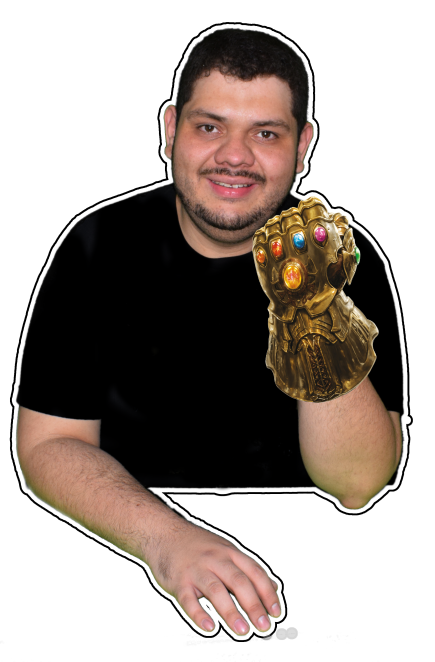
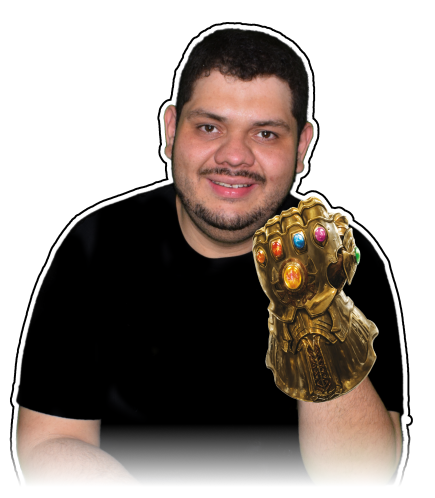
Mejorando Foto

diff --git a/index.html b/index.html
@@ -89,7 +89,7 @@
     <header class="w3-container w3-padding-32 w3-center w3-black" id="home">
       <h1 class="w3-jumbo"><span class="w3-hide-small">Soy</span> ChepeCarlos</h1>
       <p>Emprendedor, Programador Sistemas Embebidos y Fundador de ALSW.</p>
-      <img src="/recursos/imagenes/ChepeCarlos.png" alt="boy" class="w3-image" width="992" height="1108">
+      <img src="/recursos/imagenes/ChepeCarlos.png" alt="boy" class="w3-image" width="900" height="495">
     </header>
 
     <!-- About Section -->
@@ -142,31 +142,19 @@
           Tutoriales
         </div>
         <div class="w3-quarter w3-section">
-          <span class="w3-xlarge">55+</span><br>
-          Projects Done
+          <span class="w3-xlarge">7K+</span><br>
+          Subcriptores
         </div>
         <div class="w3-quarter w3-section">
           <span class="w3-xlarge">89+</span><br>
           Happy Clients
         </div>
         <div class="w3-quarter w3-section">
-          <span class="w3-xlarge">150+</span><br>
-          Meetings
+          <span class="w3-xlarge">200+</span><br>
+          Proyectos
         </div>
       </div>
 
-      <button class="w3-button w3-light-grey w3-padding-large w3-section">
-        <i class="fa fa-download"></i> Descarga Hoja de Vida
-      </button>
-
-      <!-- Testimonials -->
-      <h3 class="w3-padding-24 w3-text-light-grey">Mi Reputacion</h3>
-      <img src="/recursos/imagenes/IvanRivas.jpg" alt="Avatar" class="w3-left w3-circle w3-margin-right" style="width:80px">
-      <p><span class="w3-large w3-margin-right">Ivan Rivas .</span> ASSAES y YABT.</p>
-      <p>*****.</p><br>
-
-
-      <!-- End About Section -->
     </div>
 
     <!-- Portfolio Section -->
@@ -188,7 +176,6 @@
           <img src="/recursos/imagenes/fotos/Sexy.jpg" style="width:100%">
           <img src="/recursos/imagenes/fotos/SoyYo.jpg" style="width:100%">
           <img src="/recursos/imagenes/fotos/LaClasica.jpg	" style="width:100%">
-          <img src="/recursos/imagenes/fotos/ViejoEstudio.jpg" style="width:100%">
           <img src="/recursos/imagenes/fotos/MamaSaliEnDiario.jpg" style="width:100%">
           <img src="/recursos/imagenes/fotos/TV.jpg" style="width:100%">
           <img src="/recursos/imagenes/fotos/Desnudo.jpg" style="width:100%">
